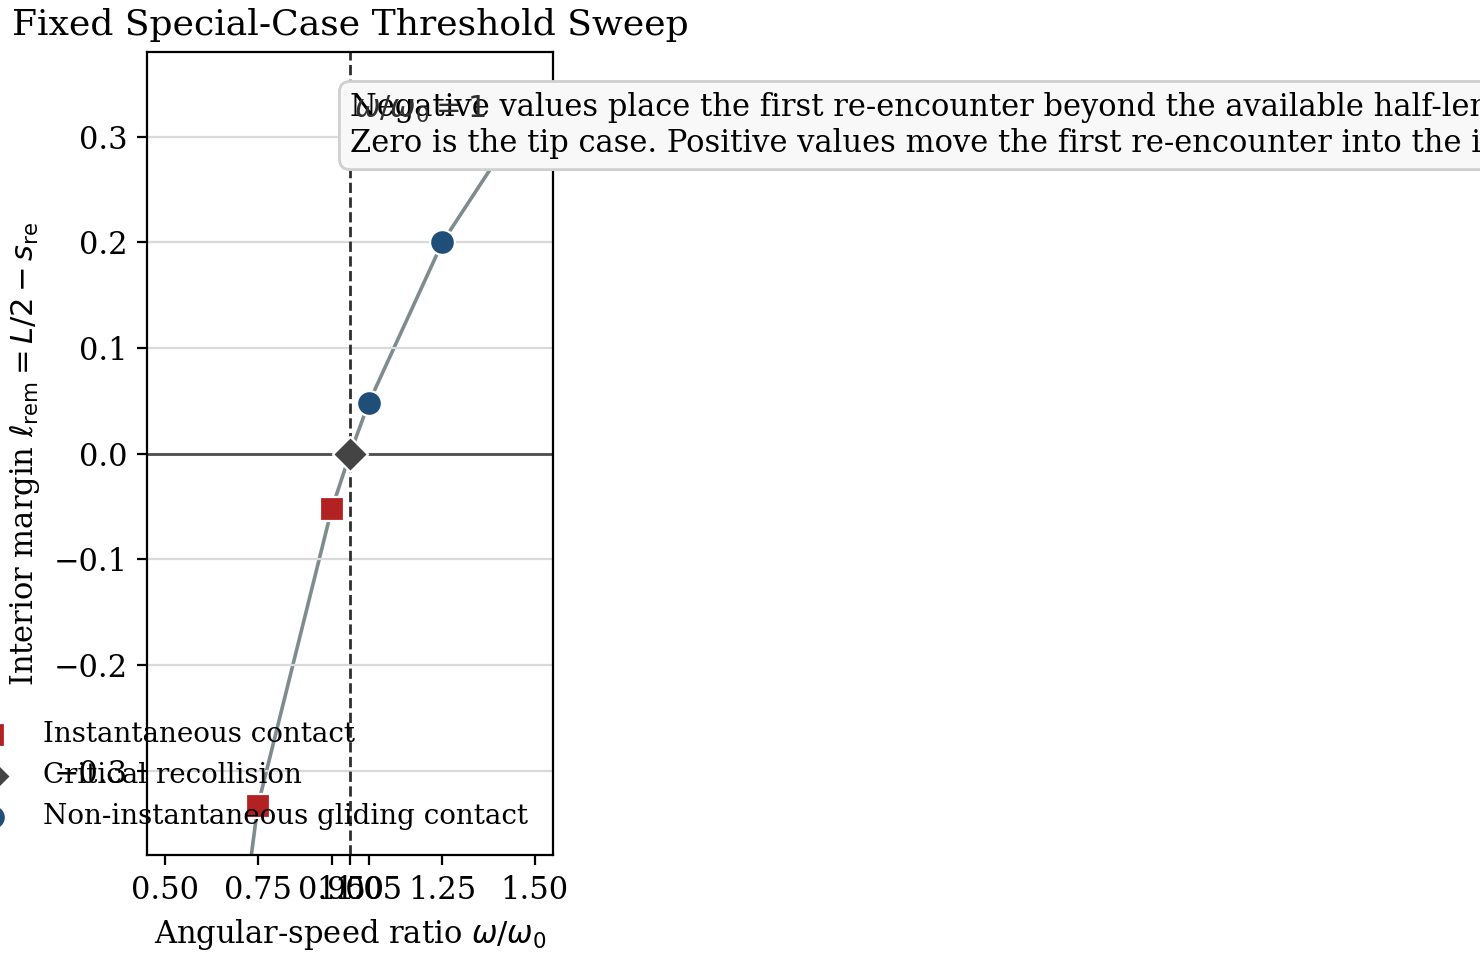
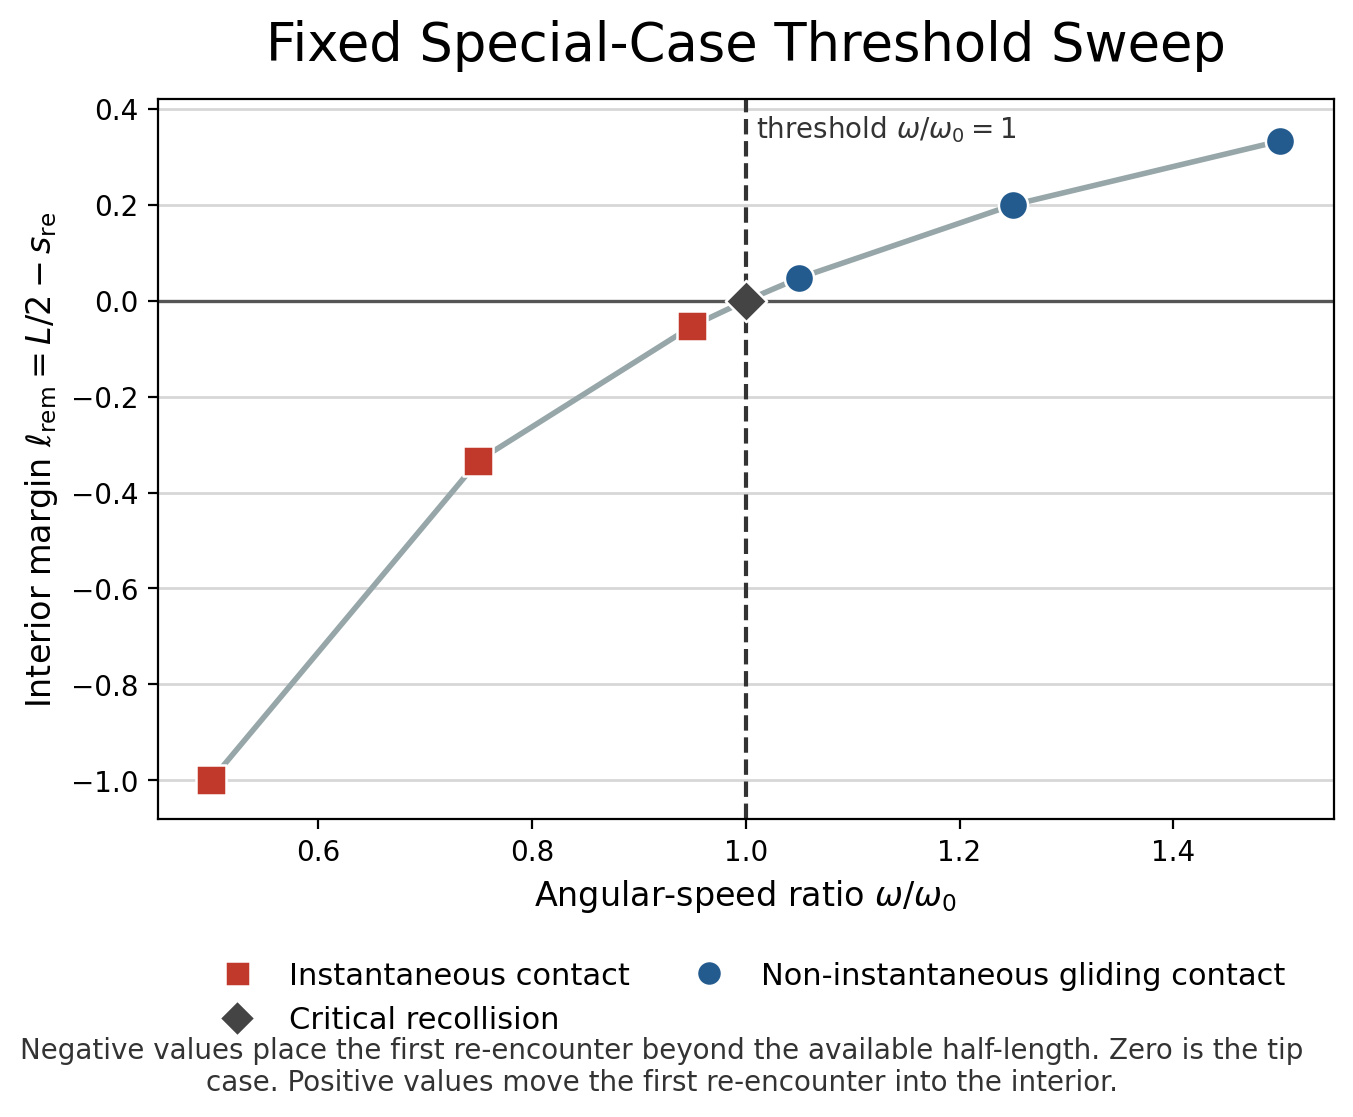
Fix special-case threshold plot layout
Replace the unreadable special-case threshold figure with a compact layout that keeps the plot area, legend, threshold label, and explanatory note separated cleanly.

Add a checked-in generator script at scripts/plot_special_case_threshold.py so the figure is reproducible instead of being an opaque binary artifact.

Validation: regenerated figures/special_case_threshold.png with python3 scripts/plot_special_case_threshold.py and visually inspected the rendered PNG to confirm that labels no longer overlap and the note no longer blows out the canvas width.

diff --git a/scripts/plot_special_case_threshold.py b/scripts/plot_special_case_threshold.py
@@ -1,0 +1,172 @@
+#!/usr/bin/env python3
+
+from __future__ import annotations
+
+import argparse
+import csv
+import os
+import textwrap
+from pathlib import Path
+
+os.environ.setdefault("MPLCONFIGDIR", "/tmp/arjen_theories_matplotlib")
+
+import matplotlib
+
+matplotlib.use("Agg")
+
+from matplotlib import pyplot as plt
+from matplotlib.lines import Line2D
+
+
+REGIME_STYLE = {
+    "instantaneous_contact": {
+        "label": "Instantaneous contact",
+        "marker": "s",
+        "color": "#c0392b",
+    },
+    "critical_recollision": {
+        "label": "Critical recollision",
+        "marker": "D",
+        "color": "#444444",
+    },
+    "non_instantaneous_gliding_contact": {
+        "label": "Non-instantaneous gliding contact",
+        "marker": "o",
+        "color": "#245b8f",
+    },
+}
+
+
+def load_rows(csv_path: Path) -> list[dict[str, str]]:
+    with csv_path.open(newline="") as handle:
+        reader = csv.DictReader(handle)
+        rows = list(reader)
+    if not rows:
+        raise ValueError(f"{csv_path} is empty")
+    return rows
+
+
+def render_figure(rows: list[dict[str, str]], output_path: Path) -> None:
+    omega_ratios = [float(row["omega_ratio"]) for row in rows]
+    ell_rem_values = [float(row["ell_rem"]) for row in rows]
+
+    fig, ax = plt.subplots(figsize=(7.0, 5.8), constrained_layout=False)
+
+    ax.plot(
+        omega_ratios,
+        ell_rem_values,
+        color="#97a6a8",
+        linewidth=2.0,
+        zorder=1,
+    )
+
+    for row in rows:
+        regime = row["regime"]
+        if regime not in REGIME_STYLE:
+            raise ValueError(f"unsupported regime: {regime}")
+        style = REGIME_STYLE[regime]
+        ax.scatter(
+            float(row["omega_ratio"]),
+            float(row["ell_rem"]),
+            s=110,
+            marker=style["marker"],
+            color=style["color"],
+            edgecolor="white",
+            linewidth=0.9,
+            zorder=3,
+        )
+
+    ax.axvline(1.0, color="#333333", linewidth=1.5, linestyle="--", zorder=2)
+    ax.axhline(0.0, color="#555555", linewidth=1.2, zorder=2)
+
+    ax.set_title("Fixed Special-Case Threshold Sweep", fontsize=19, pad=14)
+    ax.set_xlabel(r"Angular-speed ratio $\omega / \omega_0$", fontsize=12)
+    ax.set_ylabel(r"Interior margin $\ell_{\mathrm{rem}} = L/2 - s_{\mathrm{re}}$", fontsize=12)
+
+    ax.set_xlim(0.45, 1.55)
+    ax.set_ylim(-1.08, 0.42)
+    ax.grid(axis="y", color="#d7d7d7", linewidth=1.0)
+    ax.set_axisbelow(True)
+
+    ax.text(
+        1.01,
+        0.98,
+        r"threshold $\omega / \omega_0 = 1$",
+        transform=ax.get_xaxis_transform(),
+        ha="left",
+        va="top",
+        fontsize=10,
+        color="#333333",
+    )
+
+    legend_handles = [
+        Line2D(
+            [0],
+            [0],
+            marker=style["marker"],
+            color="none",
+            markerfacecolor=style["color"],
+            markeredgecolor="white",
+            markeredgewidth=0.9,
+            markersize=9,
+            label=style["label"],
+        )
+        for style in REGIME_STYLE.values()
+    ]
+    ax.legend(
+        handles=legend_handles,
+        loc="upper center",
+        bbox_to_anchor=(0.5, -0.16),
+        ncol=2,
+        frameon=False,
+        fontsize=11,
+        columnspacing=1.6,
+        handletextpad=0.7,
+    )
+
+    note = (
+        "Negative values place the first re-encounter beyond the available half-length. "
+        "Zero is the tip case. Positive values move the first re-encounter into the interior."
+    )
+    fig.text(
+        0.5,
+        0.04,
+        textwrap.fill(note, width=94),
+        ha="center",
+        va="bottom",
+        fontsize=10,
+        color="#333333",
+    )
+
+    fig.subplots_adjust(left=0.14, right=0.98, top=0.9, bottom=0.28)
+    output_path.parent.mkdir(parents=True, exist_ok=True)
+    fig.savefig(output_path, dpi=200, bbox_inches="tight")
+    plt.close(fig)
+
+
+def main() -> None:
+    repo_root = Path(__file__).resolve().parents[1]
+    parser = argparse.ArgumentParser(
+        description="Render the canonical special-case threshold figure."
+    )
+    parser.add_argument(
+        "--input",
+        default=repo_root / "results" / "special_case_threshold.csv",
+        type=Path,
+        help="Path to the canonical special-case threshold CSV.",
+    )
+    parser.add_argument(
+        "--output",
+        default=repo_root / "figures" / "special_case_threshold.png",
+        type=Path,
+        help="Path for the rendered PNG figure.",
+    )
+    args = parser.parse_args()
+
+    rows = load_rows(args.input)
+    render_figure(rows, args.output)
+    print(f"wrote {args.output}")
+
+
+if __name__ == "__main__":
+    main()
